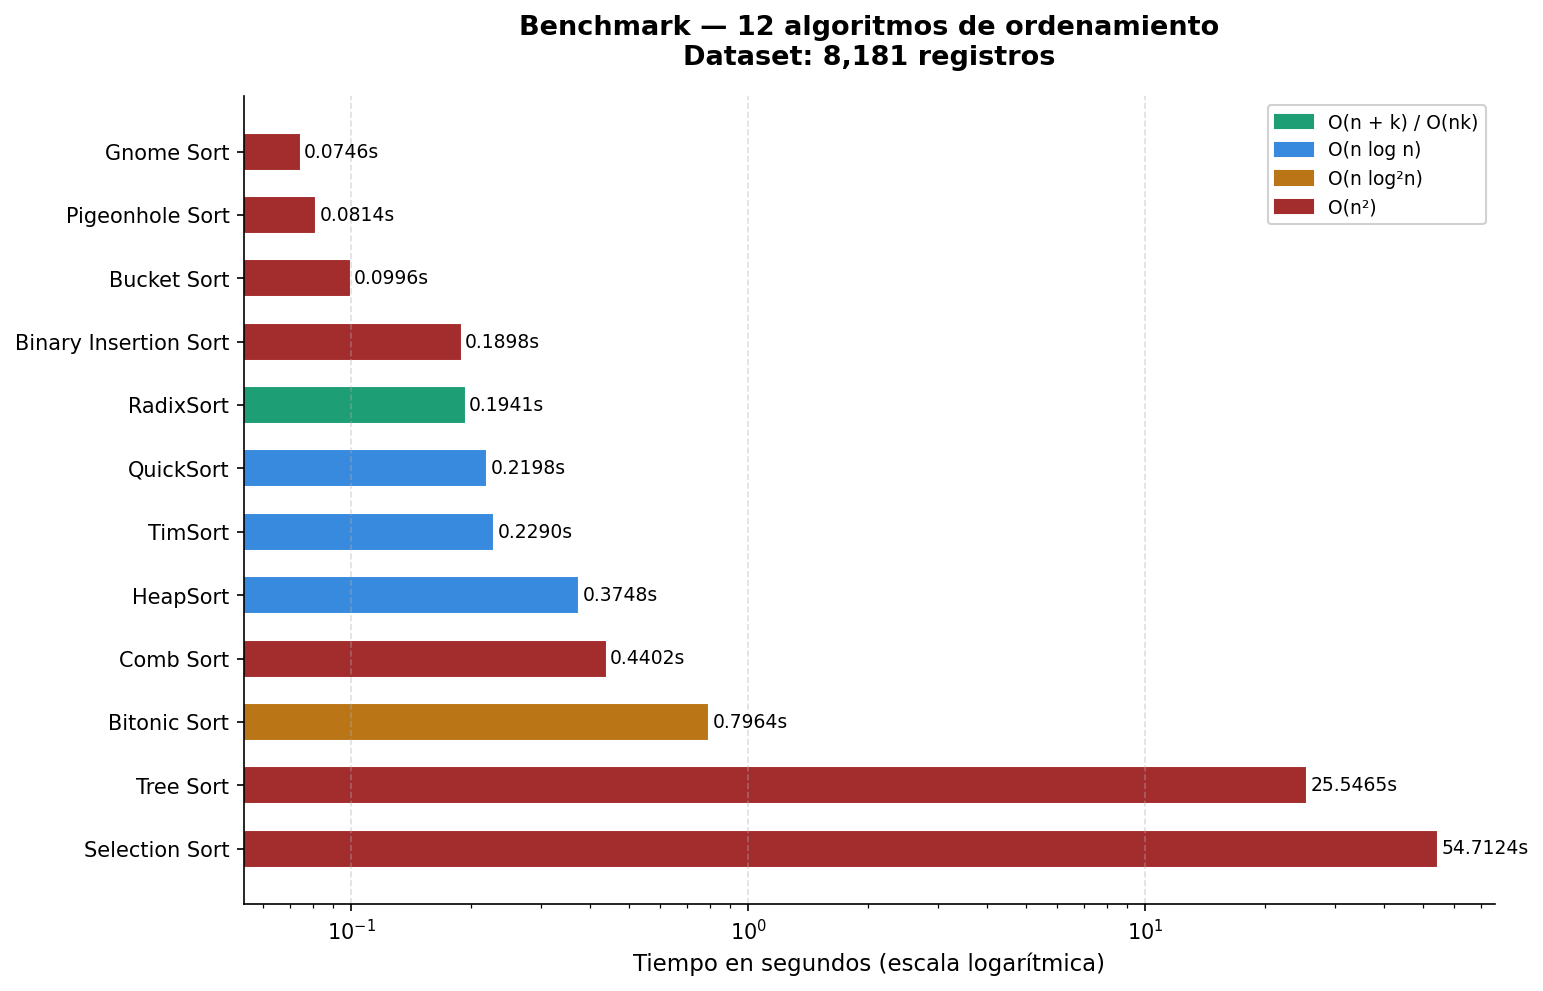
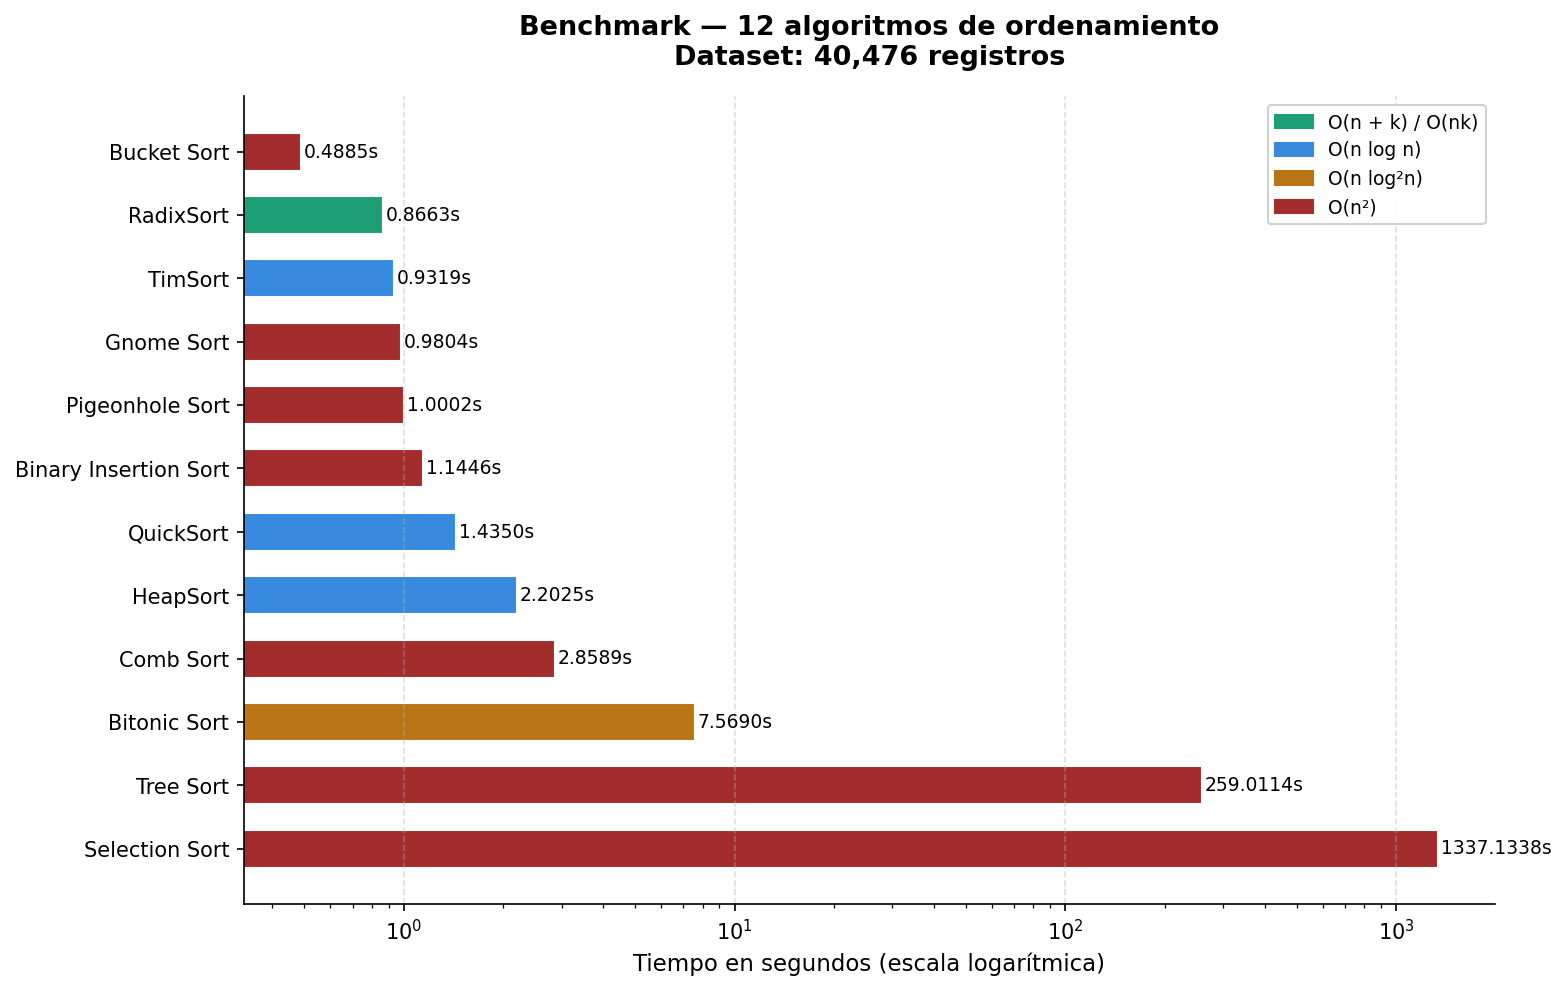
manejo de calendario bursátil en loader.py

diff --git a/backend/app/etl/loader.py b/backend/app/etl/loader.py
@@ -72,6 +72,7 @@ def create_unified_view():
     ORDER BY dates.trade_date;
     """
 
+    cursor.execute("DROP VIEW IF EXISTS unified_prices;")
     cursor.execute(view_sql)
     conn.commit()
     cursor.close()
@@ -120,6 +121,93 @@ def get_unified_summary():
     print(f"   Días cubiertos     : {(max_date - min_date).days:,}")
     print("=" * 55)
 
+def detect_calendar_gaps() -> dict:
+    """
+    Detecta fechas donde hay operaciones en algunos activos pero no en otros.
+    Esto es normal: BVC tiene festivos distintos a NYSE.
+    
+    Estrategia adoptada: forward fill (propagar último precio conocido).
+    Impacto algorítmico: las métricas de similitud del Req. 2 operarán sobre
+    series de la misma longitud, eliminando sesgo por días no operados.
+    Si se dejaran NULL, Pearson/DTW ignorarían esas posiciones, alterando
+    la distancia calculada entre activos de distintos mercados.
+    """
+    conn   = get_connection()
+    cursor = conn.cursor()
+
+    # Fechas donde al menos un activo operó
+    cursor.execute("SELECT DISTINCT trade_date FROM daily_prices ORDER BY trade_date;")
+    all_dates = [row[0] for row in cursor.fetchall()]
+
+    # Activos registrados
+    cursor.execute("SELECT id, ticker FROM assets ORDER BY ticker;")
+    assets = cursor.fetchall()
+
+    gaps = {}  # ticker -> lista de fechas sin datos
+
+    for asset_id, ticker in assets:
+        cursor.execute(
+            "SELECT trade_date FROM daily_prices WHERE asset_id = %s;",
+            (asset_id,)
+        )
+        asset_dates = {row[0] for row in cursor.fetchall()}
+        missing = [d for d in all_dates if d not in asset_dates]
+        if missing:
+            gaps[ticker] = missing
+
+    cursor.close()
+    conn.close()
+    return {"total_dates": len(all_dates), "gaps": gaps}
+
+
+def forward_fill_unified() -> int:
+    """
+    Para cada fecha sin precio en un activo, propaga el último
+    precio de cierre conocido (forward fill).
+    
+    Esto alinea los calendarios bursátiles: si ECOPETROL.CL
+    no operó el lunes festivo colombiano pero VOO sí,
+    ECOPETROL.CL usará su último precio registrado.
+    
+    Retorna la cantidad de registros rellenados.
+    """
+    conn   = get_connection()
+    cursor = conn.cursor()
+
+    cursor.execute("SELECT id, ticker FROM assets ORDER BY ticker;")
+    assets = cursor.fetchall()
+
+    cursor.execute("SELECT DISTINCT trade_date FROM daily_prices ORDER BY trade_date;")
+    all_dates = [row[0] for row in cursor.fetchall()]
+
+    filled = 0
+
+    for asset_id, ticker in assets:
+        cursor.execute("""
+            SELECT trade_date, close_price FROM daily_prices
+            WHERE asset_id = %s ORDER BY trade_date;
+        """, (asset_id,))
+        rows = {row[0]: row[1] for row in cursor.fetchall()}
+
+        last_price = None
+        for date in all_dates:
+            if date in rows:
+                last_price = rows[date]
+            elif last_price is not None:
+                # Fecha sin registro → insertar con forward fill
+                cursor.execute("""
+                    INSERT INTO daily_prices
+                        (asset_id, trade_date, close_price)
+                    VALUES (%s, %s, %s)
+                    ON CONFLICT (asset_id, trade_date) DO NOTHING;
+                """, (asset_id, date, last_price))
+                filled += cursor.rowcount
+
+    conn.commit()
+    cursor.close()
+    conn.close()
+    return filled
+
 
 def run_loader():
     """
@@ -134,6 +222,21 @@ def run_loader():
 
     # 2. Mostrar resumen
     get_unified_summary()
+
+
+    # ── Manejo de calendario bursátil ──────────────────────
+    # 3. Detectar y reportar gaps por diferencias de calendario
+    gap_report = detect_calendar_gaps()
+    print(f"\n📅 Fechas únicas en el dataset: {gap_report['total_dates']:,}")
+    print(f"   Activos con gaps de calendario: {len(gap_report['gaps'])}")
+    for ticker, missing in gap_report["gaps"].items():
+        print(f"   {ticker}: {len(missing)} días sin datos (BVC/NYSE holiday diff)")
+
+    # 4. Aplicar forward fill para alinear las series
+    filled = forward_fill_unified()
+    print(f"\n✅ Forward fill aplicado: {filled} registros completados")
+    print("   Estrategia: último precio conocido propagado hacia adelante")
+    print("   Impacto: series alineadas para análisis de similitud (Req. 2)")
 
     print("\n✅ Requerimiento 1 completado exitosamente")
 
